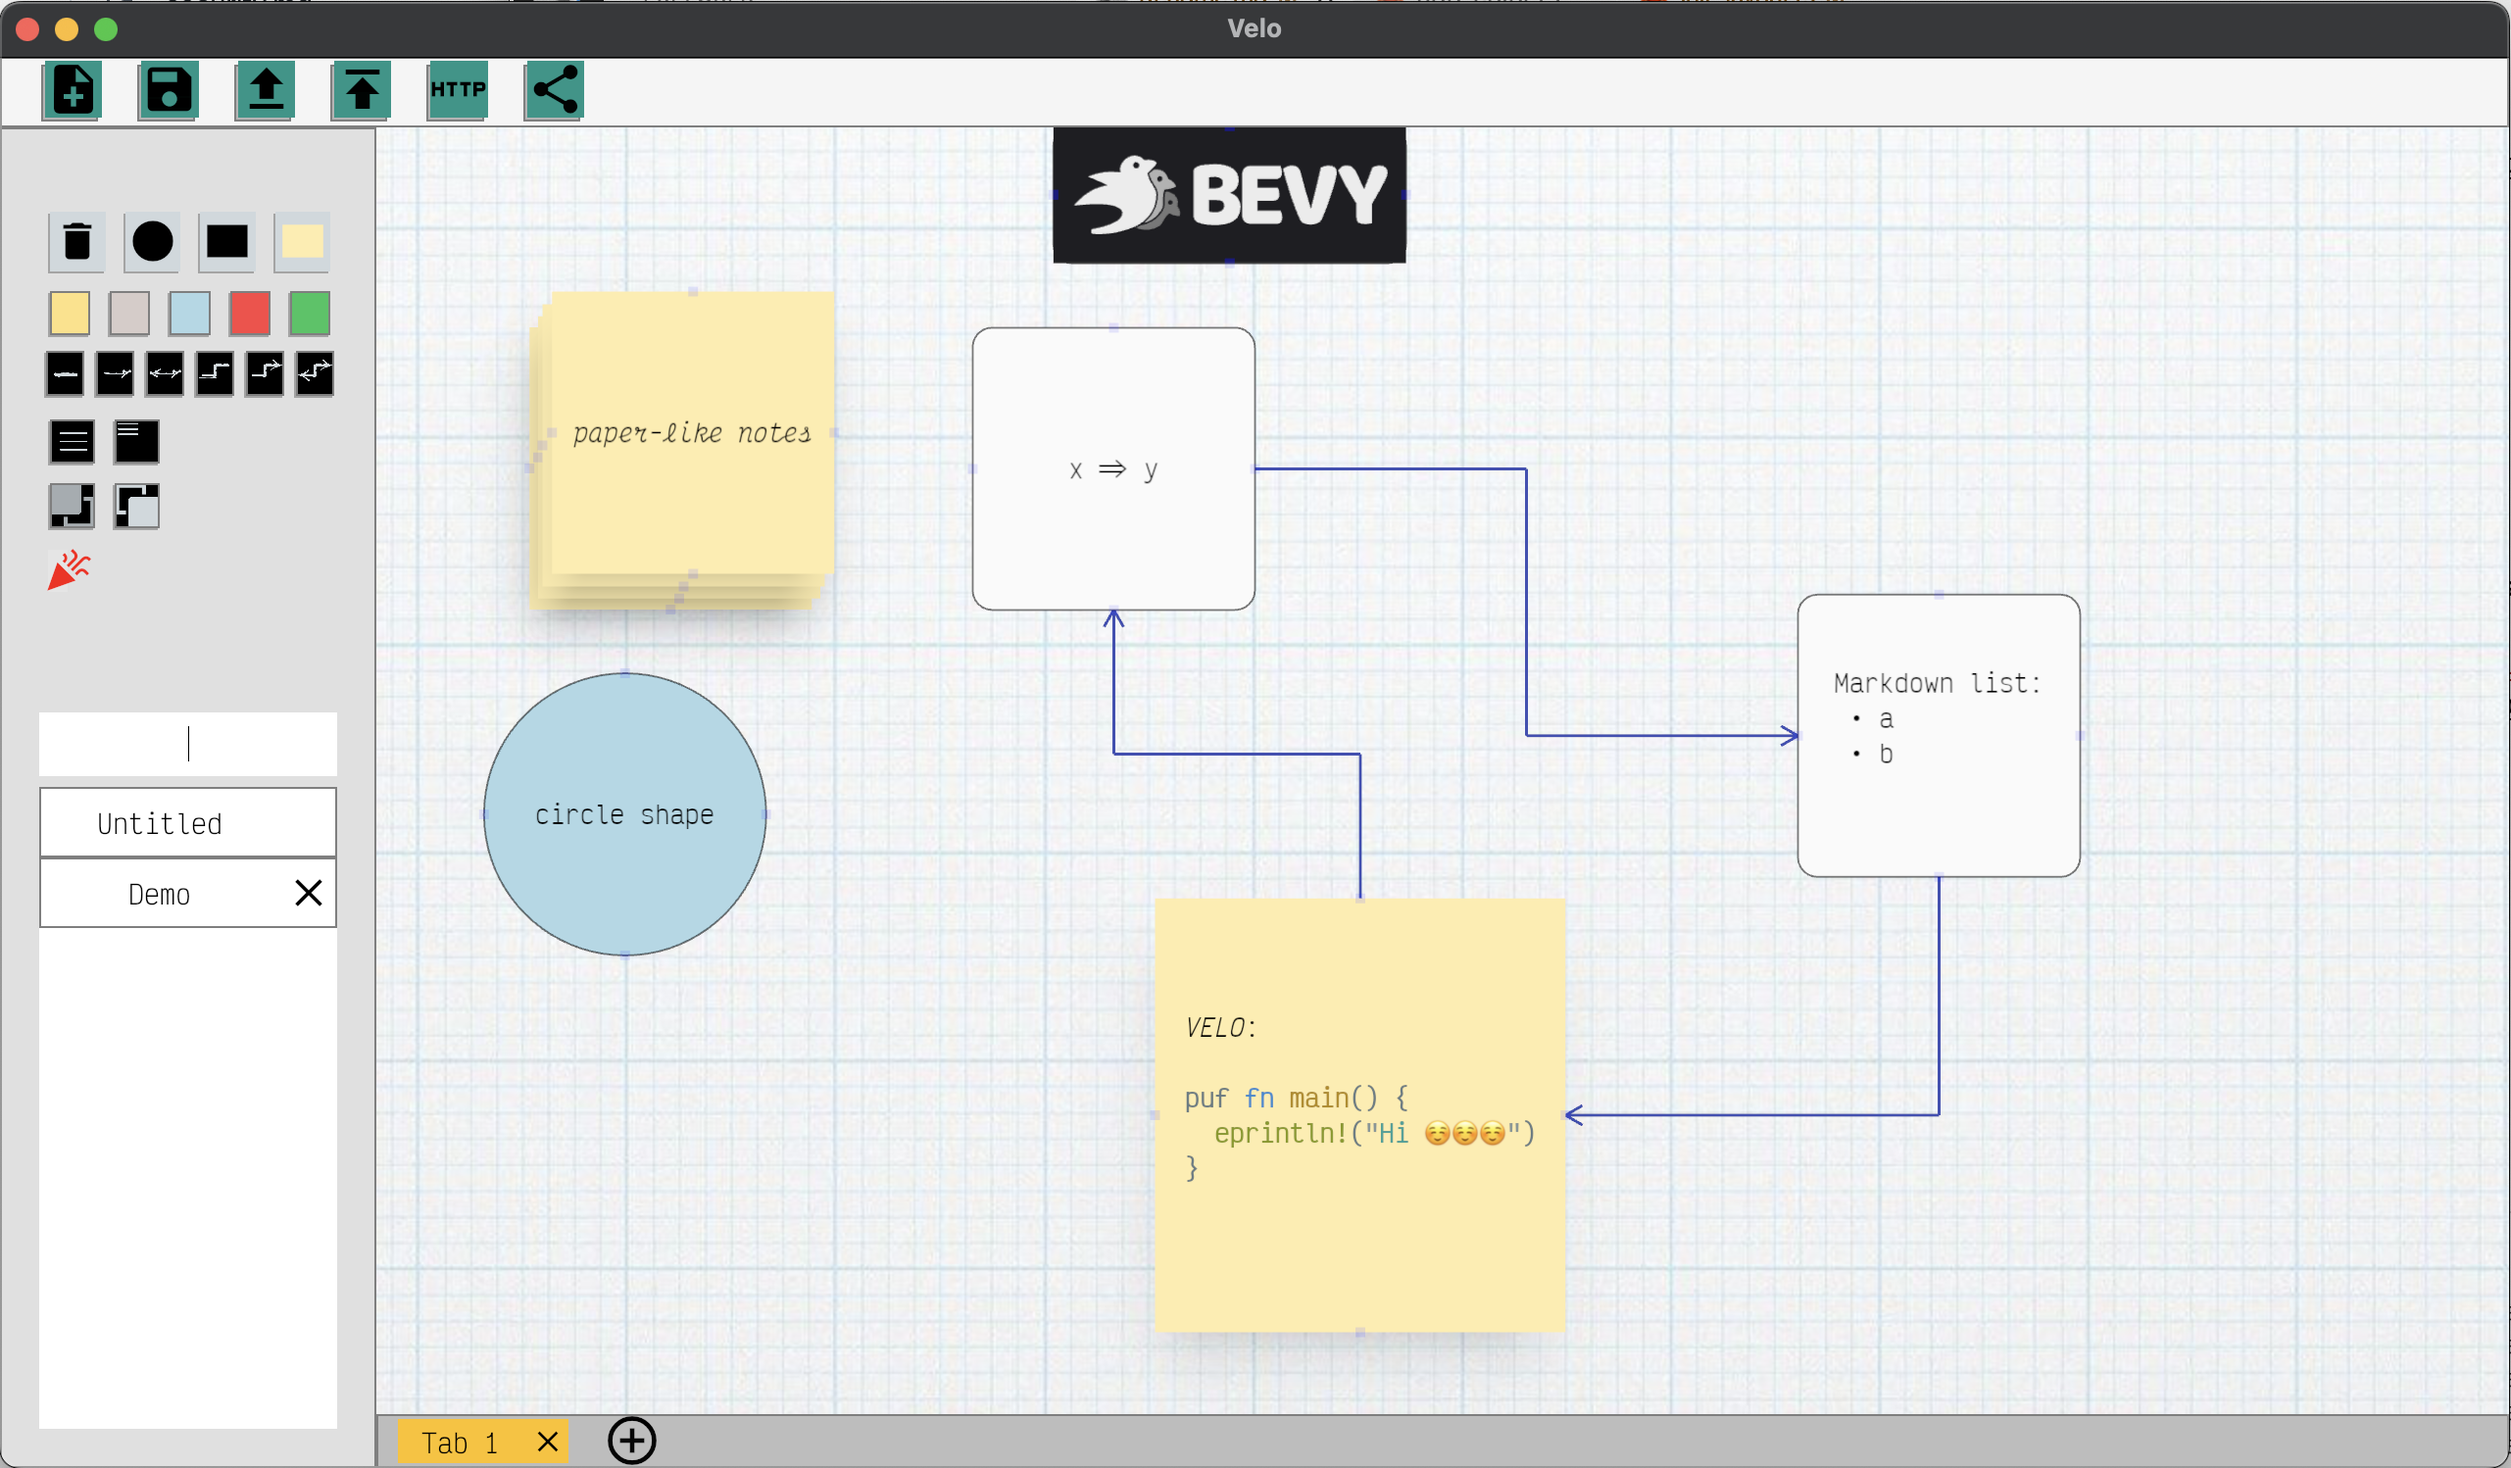
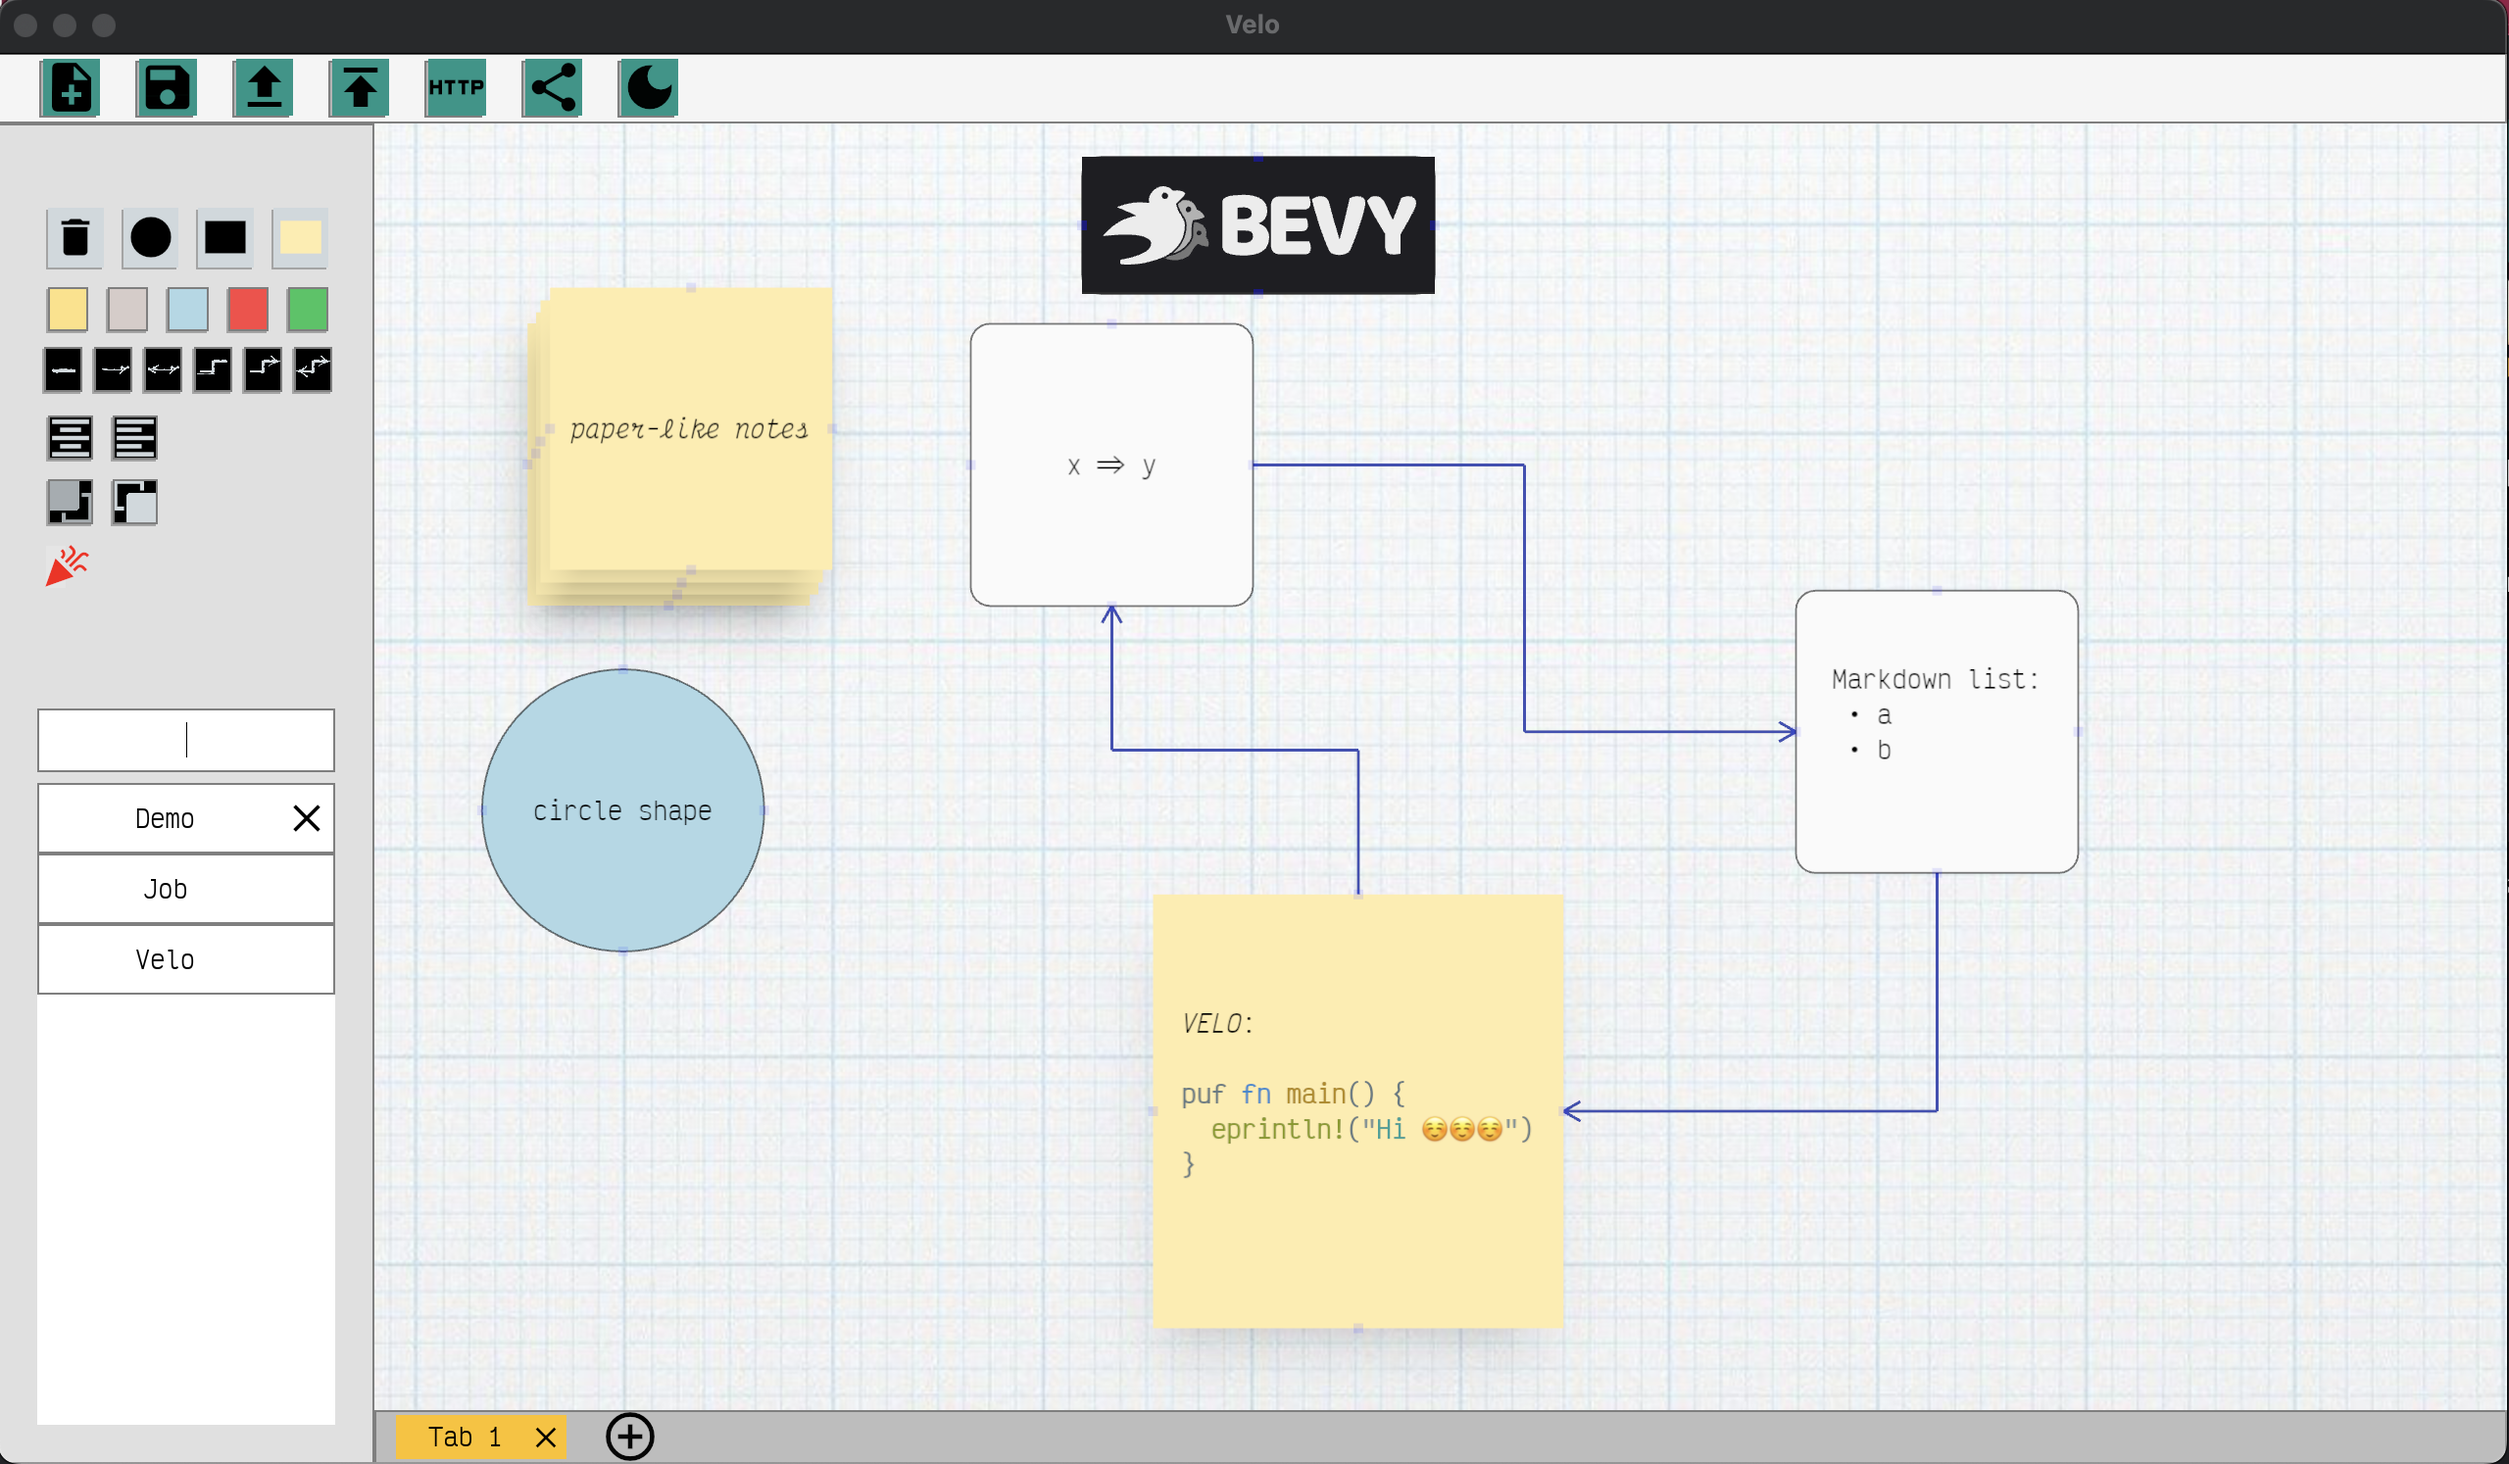
update readme

diff --git a/Readme.md b/Readme.md
@@ -1,6 +1,7 @@
 # Velo 🚵♀🚵
 ![Rust](https://img.shields.io/badge/Rust-lang-000000.svg?style=flat&logo=rust)[![codecov](https://codecov.io/gh/StaffEngineer/velo/branch/main/graph/badge.svg?token=QGEKLM6ZDF)](https://codecov.io/gh/StaffEngineer/velo)
 
+![velo](./velo.gif)
 ![alt text](velo.png "Velo")
 
 ## Demo
@@ -56,6 +57,7 @@ enjoyable project to work on.
 - filter documents by text in nodes (fuzzy search) [native target only 🖥]
 - highlight nodes containing searched text [native target only 🖥]
 - ligature/emoji rendering support [emoji native target only 🖥]
+- dark/light theme support (app restart is required for now)
 
 ## Run
 
@@ -97,8 +99,6 @@ cargo clippy -- -A clippy::type_complexity -A clippy::too_many_arguments
 - for native target there is search box that allows to filter documents by text in notes (fuzzy search)
 - for wasm target there is url query parameter `?document=<url>` to load document from url
 - click save icon to save document to database on native platform or to localStorage on wasm target
-
-![velo](./velo.gif)
 
 ## License
 All code in this repository dual-licensed under either:
